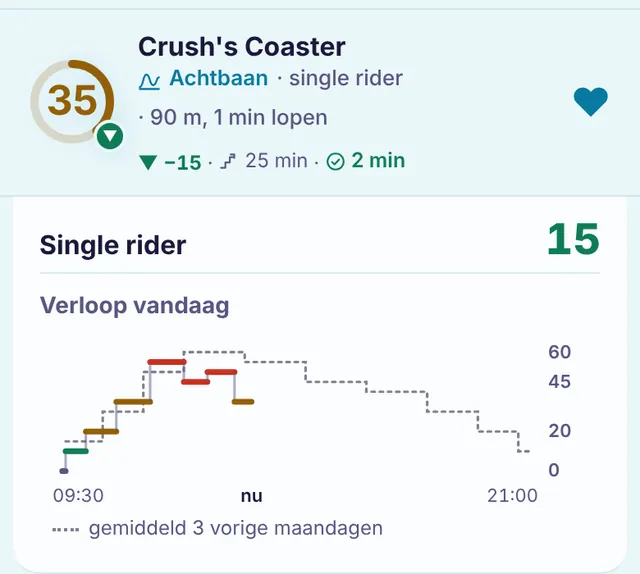
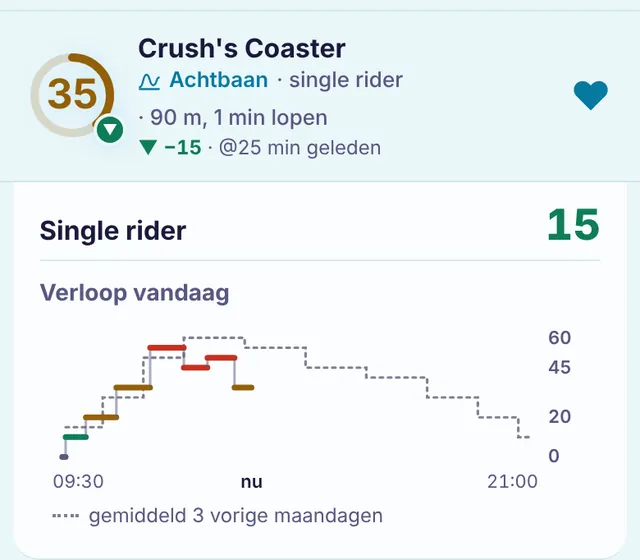
0.22.3: regel onder de naam als '@24 min geleden', bevestigd weg uit de rij
Claude-Session: https://claude.ai/code/session_01LXXgKJuMiuwNeSbj9zwCKJ

diff --git a/apps/web/src/i18n.ts b/apps/web/src/i18n.ts
@@ -19,9 +19,8 @@ const nl = {
   ago: (span: string) => `${span} geleden`,
   min: (m: number) => `${m} min`,
   hours: (h: number, m: number) => (m ? `${h} u ${m} min` : `${h} u`),
-  hoursShort: (h: number, m: number) => (m ? `${h} u ${m}` : `${h} u`),
-  daysShort: (d: number) => `${d} d`,
-  geq: (span: string) => `≥ ${span}`,
+  atAgo: (ago: string) => `@${ago}`,
+  atMoreThan: (span: string) => `@meer dan ${span} geleden`,
   days: (d: number) => `${d} dagen`,
   inDur: (d: string) => `over ${d}`,
   now: 'nu',
@@ -455,7 +454,7 @@ const nl = {
   helpToCode: 'Naar koppelcode',
   helpTopics: [
     { id: 'views', title: 'Alles en Mijn dag', body: ['Alles toont het hele park met tabbladen voor attracties, shows en wat je volgt. Mijn dag toont alleen wat je volgt, met shows bovenaan.', 'Volgen: tik op een naam en dan op Volgen. Het park wissel je in Alles met de knoppen onder de schakelaar.'] },
-    { id: 'signs', title: 'Wachttijden en tekens', body: ['Het getal is de wachttijd in minuten: groen onder 20, oranje onder 45, daarboven rood.', 'Rood uitroepteken = storing, grijze moersleutel = onderhoud, maantje = park dicht. Klein getal rechtsboven = single rider. ▲ rood = langer, ▼ groen = korter dan de vorige meting.', 'Regel onder de naam: trapje = hoe lang geleden de wachttijd veranderde, vinkje = hoe lang geleden de bron hem voor het laatst bevestigde (groen tot 10 min, oranje tot 30 min, daarna rood). "≥ 2 u" = ParkPilot zag hem in die tijd niet veranderen; het echte moment kan eerder zijn. De verandering is nooit recenter dan de bevestiging: ParkPilot meet elke 5 minuten en neemt dan het tijdstip van de bron.', 'Grijs getal = de bron gaf al meer dan 30 minuten geen update; het kan verouderd zijn. Zulke getallen tellen niet mee in gemiddelde en kortste wachttijd.', 'Storingstegel (linksboven in Alles): de storingen van vandaag met tijd, duur en attractie; rood = loopt nog. Tik op een kop om te sorteren, nog eens = omgekeerd. "Al minstens" = liep al toen ParkPilot begon te meten. Onder Onderhoud staan ook attracties die al meer dan een dag dicht zijn; de datum is de laatste update van de bron.'] },
+    { id: 'signs', title: 'Wachttijden en tekens', body: ['Het getal is de wachttijd in minuten: groen onder 20, oranje onder 45, daarboven rood.', 'Rood uitroepteken = storing, grijze moersleutel = onderhoud, maantje = park dicht. Klein getal rechtsboven = single rider. ▲ rood = langer, ▼ groen = korter dan de vorige meting.', 'Regel onder de naam: "@24 min geleden" = zo lang geleden veranderde de wachttijd (of de status). "@meer dan 2 u geleden" = ParkPilot zag hem in die tijd niet veranderen; het echte moment kan eerder zijn. ParkPilot meet elke 5 minuten en neemt het tijdstip van de bron als dat eerder is. Hoe vers de bron is, zie je bovenaan de lijst ("bron bevestigd …") en in het detailvenster.', 'Grijs getal = de bron gaf al meer dan 30 minuten geen update; het kan verouderd zijn. Zulke getallen tellen niet mee in gemiddelde en kortste wachttijd.', 'Storingstegel (linksboven in Alles): de storingen van vandaag met tijd, duur en attractie; rood = loopt nog. Tik op een kop om te sorteren, nog eens = omgekeerd. "Al minstens" = liep al toen ParkPilot begon te meten. Onder Onderhoud staan ook attracties die al meer dan een dag dicht zijn; de datum is de laatste update van de bron.'] },
     { id: 'expand', title: 'Uitklappen en details', body: ['Tik op een wachttijd voor het verloop van vandaag, van opening tot sluiting. De schaal rechts is in minuten. Alleen wijzigingen die ParkPilot zag (elke 5 minuten) staan erin.', 'Stippellijn = dezelfde weekdag in de vorige weken (gemiddeld, tot vier weken). Lichtrode zone met rode stippellijn onderin = storing. Grijze lijn = de bron gaf in die tijd geen update. Grijze achtergrond met een tijdstip = je had geen bereik; het werkt zich vanzelf bij.', 'Tik op de naam voor details en omschrijving. Omschrijvingen en lengtes zijn door ParkPilot samengesteld; controleer de borden bij de ingang.'] },
     { id: 'swipe', title: 'Vegen en afstrepen', body: ['In Mijn dag: naar links vegen strept af als gezien (alleen vandaag, alleen dit toestel). Nog eens vegen maakt het ongedaan.', 'Naar rechts vegen opent lopende navigatie. Met de knop Gezien verberg je afgestreepte rijen.'] },
     { id: 'queue', title: 'In de rij en spelletje', body: ['Houd een attractie even vast en kies de rij. Onderin loopt de tijd met de verwachting. Tik op Aan de beurt en daarna Eruit; je ziet hoe lang je echt wachtte.', 'Bij inchecken kun je een spelletje spelen met gedeelde hiscores. Niet meer vragen? Zet het terug in Instellingen.'] },
@@ -484,9 +483,8 @@ const en: Dict = {
   ago: (span) => `${span} ago`,
   min: (m) => `${m} min`,
   hours: (h, m) => (m ? `${h} h ${m} min` : `${h} h`),
-  hoursShort: (h, m) => (m ? `${h} h ${m}` : `${h} h`),
-  daysShort: (d) => `${d} d`,
-  geq: (span) => `≥ ${span}`,
+  atAgo: (ago) => `@${ago}`,
+  atMoreThan: (span) => `@more than ${span} ago`,
   days: (d) => `${d} days`,
   inDur: (d) => `in ${d}`,
   now: 'now',
@@ -901,7 +899,7 @@ const en: Dict = {
   helpToCode: 'Go to link code',
   helpTopics: [
     { id: 'views', title: 'All and My day', body: ['All shows the whole park with tabs for attractions, shows and what you follow. My day shows only what you follow, with shows at the top.', 'Follow: tap a name, then Follow. Switch park in All with the buttons below the switch.'] },
-    { id: 'signs', title: 'Wait times and signs', body: ['The number is the wait time in minutes: green under 20, orange under 45, red above that.', 'Red exclamation mark = down, grey wrench = refurbishment, moon = park closed. Small number top right = single rider. ▲ red = longer, ▼ green = shorter than the previous reading.', 'Line under the name: steps = how long ago the wait time changed, tick = how long ago the source last confirmed it (green up to 10 min, orange up to 30 min, red after that). "≥ 2 h" = ParkPilot did not see it change in that time; the real moment may be earlier. The change is never more recent than the confirmation: ParkPilot checks every 5 minutes and then uses the source\'s time.', 'Grey number = the source has not updated for more than 30 minutes; it may be out of date. Such numbers do not count towards the average and shortest wait.', 'Breakdown tile (top left in All): today\'s breakdowns with time, duration and attraction; red = still ongoing. Tap a header to sort, again = reverse. "At least" = it was already going when ParkPilot started measuring. Refurbishment also lists attractions closed for more than a day; the date is the source\'s last update.'] },
+    { id: 'signs', title: 'Wait times and signs', body: ['The number is the wait time in minutes: green under 20, orange under 45, red above that.', 'Red exclamation mark = down, grey wrench = refurbishment, moon = park closed. Small number top right = single rider. ▲ red = longer, ▼ green = shorter than the previous reading.', 'Line under the name: "@24 min ago" = how long ago the wait time (or status) changed. "@more than 2 h ago" = ParkPilot did not see it change in that time; the real moment may be earlier. ParkPilot checks every 5 minutes and uses the source\'s time if that is earlier. How fresh the source is shows at the top of the list ("source confirmed …") and in the details.', 'Grey number = the source has not updated for more than 30 minutes; it may be out of date. Such numbers do not count towards the average and shortest wait.', 'Breakdown tile (top left in All): today\'s breakdowns with time, duration and attraction; red = still ongoing. Tap a header to sort, again = reverse. "At least" = it was already going when ParkPilot started measuring. Refurbishment also lists attractions closed for more than a day; the date is the source\'s last update.'] },
     { id: 'expand', title: 'Expanding and details', body: ['Tap a wait time for today\'s history, from opening to closing. The scale on the right is in minutes. Only changes ParkPilot saw (every 5 minutes) are included.', 'Dotted line = the same weekday in previous weeks (average, up to four weeks). Light red zone with a red dotted line at the bottom = down. Grey line = the source gave no update during that time. Grey background with a time = you had no signal; it updates by itself.', 'Tap the name for details and a description. Descriptions and heights are compiled by ParkPilot; check the signs at the entrance.'] },
     { id: 'swipe', title: 'Swiping and ticking off', body: ['In My day: swipe left to tick off as seen (today only, this device only). Swipe again to undo.', 'Swipe right for walking directions. The Seen button hides ticked-off rows.'] },
     { id: 'queue', title: 'In the queue and the game', body: ['Hold an attraction and choose the queue. The time runs at the bottom with the expected wait. Tap My turn, then Done; you see how long you really waited.', 'When checking in you can play a game with shared high scores. Turned off asking? Turn it back on in Settings.'] },
@@ -928,9 +926,8 @@ const pt: Dict = {
   ago: (span) => `há ${span}`,
   min: (m) => `${m} min`,
   hours: (h, m) => (m ? `${h} h ${m} min` : `${h} h`),
-  hoursShort: (h, m) => (m ? `${h} h ${m}` : `${h} h`),
-  daysShort: (d) => `${d} d`,
-  geq: (span) => `≥ ${span}`,
+  atAgo: (ago) => `@${ago}`,
+  atMoreThan: (span) => `@há mais de ${span}`,
   days: (d) => `${d} dias`,
   inDur: (d) => `daqui a ${d}`,
   now: 'agora',
@@ -1345,7 +1342,7 @@ const pt: Dict = {
   helpToCode: 'Ir para o código de ligação',
   helpTopics: [
     { id: 'views', title: 'Tudo e O meu dia', body: ['Tudo mostra o parque inteiro com separadores para atrações, espetáculos e o que segue. O meu dia mostra só o que segue, com os espetáculos no topo.', 'Seguir: toque num nome e depois em Seguir. Mude de parque em Tudo com os botões por baixo do seletor.'] },
-    { id: 'signs', title: 'Tempos e sinais', body: ['O número é o tempo de espera em minutos: verde abaixo de 20, laranja abaixo de 45, vermelho acima disso.', 'Ponto de exclamação vermelho = avaria, chave cinzenta = manutenção, lua = parque fechado. Número pequeno no canto superior direito = single rider. ▲ vermelho = mais longo, ▼ verde = mais curto do que a medição anterior.', 'Linha sob o nome: degraus = há quanto tempo o tempo de espera mudou, visto = há quanto tempo a fonte o confirmou pela última vez (verde até 10 min, laranja até 30 min, depois vermelho). "≥ 2 h" = o ParkPilot não o viu mudar nesse período; o momento real pode ser anterior. A alteração nunca é mais recente do que a confirmação: o ParkPilot verifica a cada 5 minutos e usa a hora da fonte.', 'Número cinzento = a fonte não atualiza há mais de 30 minutos; pode estar desatualizado. Estes números não contam para a média nem para o tempo mais curto.', 'Mosaico de avarias (canto superior esquerdo em Tudo): as avarias de hoje com hora, duração e atração; vermelho = ainda a decorrer. Toque num cabeçalho para ordenar, novamente = inverter. "Pelo menos" = já decorria quando o ParkPilot começou a medir. Em Manutenção também aparecem atrações fechadas há mais de um dia; a data é a última atualização da fonte.'] },
+    { id: 'signs', title: 'Tempos e sinais', body: ['O número é o tempo de espera em minutos: verde abaixo de 20, laranja abaixo de 45, vermelho acima disso.', 'Ponto de exclamação vermelho = avaria, chave cinzenta = manutenção, lua = parque fechado. Número pequeno no canto superior direito = single rider. ▲ vermelho = mais longo, ▼ verde = mais curto do que a medição anterior.', 'Linha sob o nome: "@há 24 min" = há quanto tempo o tempo de espera (ou o estado) mudou. "@há mais de 2 h" = o ParkPilot não o viu mudar nesse período; o momento real pode ser anterior. O ParkPilot verifica a cada 5 minutos e usa a hora da fonte se for anterior. A frescura da fonte aparece no topo da lista ("fonte confirmada …") e nos detalhes.', 'Número cinzento = a fonte não atualiza há mais de 30 minutos; pode estar desatualizado. Estes números não contam para a média nem para o tempo mais curto.', 'Mosaico de avarias (canto superior esquerdo em Tudo): as avarias de hoje com hora, duração e atração; vermelho = ainda a decorrer. Toque num cabeçalho para ordenar, novamente = inverter. "Pelo menos" = já decorria quando o ParkPilot começou a medir. Em Manutenção também aparecem atrações fechadas há mais de um dia; a data é a última atualização da fonte.'] },
     { id: 'expand', title: 'Abrir e detalhes', body: ['Toque num tempo de espera para ver a evolução de hoje, da abertura ao fecho. A escala à direita é em minutos. Só entram as alterações vistas pelo ParkPilot (a cada 5 minutos).', 'Linha pontilhada = o mesmo dia da semana nas semanas anteriores (média, até quatro semanas). Zona vermelho-clara com linha vermelha pontilhada em baixo = avaria. Linha cinzenta = a fonte não atualizou nesse período. Fundo cinzento com uma hora = estava sem rede; atualiza-se sozinho.', 'Toque no nome para detalhes e descrição. As descrições e alturas são compiladas pelo ParkPilot; confirme os avisos à entrada.'] },
     { id: 'swipe', title: 'Deslizar e marcar', body: ['Em O meu dia: deslizar para a esquerda marca como visto (só hoje, só neste aparelho). Deslize outra vez para anular.', 'Deslizar para a direita abre a navegação a pé. O botão Vistos esconde as linhas marcadas.'] },
     { id: 'queue', title: 'Na fila e o jogo', body: ['Mantenha uma atração premida e escolha a fila. Em baixo corre o tempo com a espera prevista. Toque em A minha vez e depois em Saí; vê quanto tempo esperou de facto.', 'Ao entrar na fila pode jogar um jogo com recordes partilhados. Desligou a pergunta? Volte a ligá-la nas Definições.'] },

diff --git a/apps/web/src/main.ts b/apps/web/src/main.ts
@@ -25,7 +25,7 @@ import {
 } from './api';
 import { parkArt, parkIcon } from './art';
 import { h, svg } from './dom';
-import { agoLabel, clock, dec1, dur, durShort, minutesSince, waitLevel } from './format';
+import { agoLabel, clock, dec1, dur, durHuman, minutesSince, waitLevel } from './format';
 import { applyLang, getLangPref, kindName, lang, LANG_NAMES, LANGS, setLangPref, t as T, type LangPref } from './i18n';
 import { GeoError, formatDistance, getPosition, getPrecisePosition, haversineMeters, hasGeoPermission, walkMinutes } from './geo';
 import { icon, iconForKind } from './icons';
@@ -447,13 +447,13 @@ function changedAtMs(live: LiveInfo | undefined): number | null {
   return Number.isFinite(u) ? Math.min(c, u) : c;
 }
 
-/** Korte tekst voor de rij: "21 min" of (niet zelf zien veranderen) "≥ 3 u 10". */
-function changedShort(live: LiveInfo | undefined): string {
+/** Tekst voor de rij: "@24 min geleden", of (niet zelf zien veranderen) "@meer dan 3 u 10 min geleden". */
+function changedText(live: LiveInfo | undefined): string {
   const c = changedAtMs(live);
   if (c === null) return '';
   const min = Math.max(0, Math.floor((Date.now() - c) / 60000));
-  if (live!.changeObserved) return durShort(min);
-  return min < 1 ? '' : T.geq(durShort(min));
+  if (live!.changeObserved) return T.atAgo(min < 1 ? T.justNow : T.ago(durHuman(min)));
+  return min < 1 ? '' : T.atMoreThan(durHuman(min));
 }
 
 /** Pijl met het verschil sinds de vorige waarneming. Hoger is slechter (rood), lager is beter (groen). */
@@ -477,27 +477,15 @@ function freshness(iso: string | null): 'fresh' | 'aging' | 'old' | 'unknown' {
   return min <= 10 ? 'fresh' : min <= 30 ? 'aging' : 'old';
 }
 
-/** Eén regel onder de naam: ▼ −5 · [trapje] 21 min · [vinkje] 5 min. Trapje = wachttijd veranderd, vinkje = bron
- *  bevestigd (kleur = versheid). Woorden alleen voor schermlezers en bij lang drukken (title). */
+/** Regel onder de naam: ▼ −5 · @24 min geleden. Versheid van de bron staat bovenaan de lijst en in het detailvenster. */
 function metaLine(live: LiveInfo | undefined): HTMLElement | null {
   if (!live) return null;
   const parts: (Node | string)[] = [];
   const trend = trendNode(live);
   if (trend) parts.push(trend);
-  const changed = changedShort(live);
-  if (changed) {
-    const c = changedAtMs(live)!;
-    const full = live.changeObserved ? T.changed(agoLabel(new Date(c).toISOString())) : T.unchangedFor(dur(Math.floor((Date.now() - c) / 60000)));
-    parts.push(h('span', { class: 'mi', title: full, 'aria-label': full }, icon('changed', 13), changed));
-  }
-  if (live.updatedAt) {
-    const full = T.confirmed(agoLabel(live.updatedAt));
-    parts.push(h('span', { class: `mi src ${freshness(live.updatedAt)}`, title: full, 'aria-label': full }, icon('confirmed', 13), durShort(minutesSince(live.updatedAt))));
-  }
-  if (!parts.length) return null;
-  const line: (Node | string)[] = [];
-  parts.forEach((p, i) => { if (i) line.push(' · '); line.push(p); });
-  return h('div', { class: 'row-meta one' }, ...line);
+  const changed = changedText(live);
+  if (changed) parts.push(parts.length ? ' · ' : '', changed);
+  return parts.length ? h('div', { class: 'row-meta one' }, ...parts) : null;
 }
 
 function upcomingStarts(live: LiveInfo | undefined): number[] {

diff --git a/apps/web/src/changelog.ts b/apps/web/src/changelog.ts
@@ -10,9 +10,9 @@ export const CHANGELOG: ChangelogEntry[] = [
   {
     version: '0.22.3',
     date: '2026-11-23',
-    changes: ['Regel onder de naam op één regel met twee icoontjes: trapje = veranderd, vinkje = bevestigd. "Veranderd" is nooit meer recenter dan "bevestigd"; lange tijden in dagen.'],
-    en: ['Line under the name now fits on one line with two icons: steps = changed, tick = confirmed. "Changed" is never more recent than "confirmed" any more; long spans in days.'],
-    pt: ['Linha sob o nome numa só linha com dois ícones: degraus = alterado, visto = confirmado. "Alterado" já nunca é mais recente do que "confirmado"; períodos longos em dias.'],
+    changes: ['Regel onder de naam korter: "@24 min geleden" = wanneer de wachttijd veranderde. Kan niet meer recenter zijn dan de bron; lange tijden in dagen.'],
+    en: ['Shorter line under the name: "@24 min ago" = when the wait time changed. Can no longer be more recent than the source; long spans in days.'],
+    pt: ['Linha sob o nome mais curta: "@há 24 min" = quando o tempo de espera mudou. Já não pode ser mais recente do que a fonte; períodos longos em dias.'],
   },
   {
     version: '0.22.2',

diff --git a/apps/web/src/style.css b/apps/web/src/style.css
@@ -128,11 +128,8 @@ main { padding: 2px 0 12px; }
 .row-sub { font-size: 13px; color: var(--accent); font-weight: 600; display: flex; align-items: center; gap: 5px; flex-wrap: wrap; }
 .row-sub .plain { color: var(--muted); font-weight: 500; }
 .row-meta { font-size: 12px; color: var(--muted); margin-top: 1px; }
-/* Sinds 0.22.3: één regel met iconen (trapje = veranderd, vinkje = bevestigd); vinkje vervangt het stipje. */
+/* Sinds 0.22.3: één regel, "▼ −5 · @24 min geleden". */
 .row-meta.one { white-space: nowrap; overflow: hidden; text-overflow: ellipsis; }
-.mi { display: inline-flex; align-items: center; gap: 3px; vertical-align: -2px; }
-.mi .ico { flex: none; }
-.mi.src::before { display: none; }
 .trend { font-weight: 700; font-variant-numeric: tabular-nums; }
 .trend.up { color: var(--high); } .trend.down { color: var(--low); }
 .src { font-weight: 600; }

diff --git a/apps/web/src/format.ts b/apps/web/src/format.ts
@@ -9,12 +9,9 @@ export function dur(min: number): string {
   return t.hours(Math.floor(min / 60), min % 60);
 }
 
-/** Korte duur voor de regel onder de naam: "5 min", "4 u 34", "17 d". */
-export function durShort(min: number): string {
-  if (min < 1) return t.justNow;
-  if (min < 60) return t.min(min);
-  if (min < 48 * 60) return t.hoursShort(Math.floor(min / 60), min % 60);
-  return t.daysShort(Math.floor(min / 1440));
+/** Duur in gewone taal; vanaf 48 uur in dagen ("17 dagen"). */
+export function durHuman(min: number): string {
+  return min < 48 * 60 ? dur(min) : t.days(Math.floor(min / 1440));
 }
 
 export function agoLabel(iso: string | null, now = Date.now()): string {

diff --git a/apps/web/src/icons.ts b/apps/web/src/icons.ts
@@ -21,8 +21,6 @@ const PATHS: Record<string, string[]> = {
   gauge: ['M4 17a8 8 0 1 1 16 0', 'M12 17l4-5'],
   bolt: ['M13 2L5 14h6l-1 8 8-12h-6z'],
   grid: ['M4 4h6.5v6.5H4z', 'M13.5 4H20v6.5h-6.5z', 'M4 13.5h6.5V20H4z', 'M13.5 13.5H20V20h-6.5z'],
-  changed: ['M3 19h5v-6h5V7h4', 'M14 4h4v4'],
-  confirmed: ['M12 3a9 9 0 1 0 0.01 0z', 'M8 12.5l2.8 2.8L16 9.8'],
   menu: ['M4 7h16', 'M4 12h16', 'M4 17h16'],
   stale: ['M12 3a9 9 0 1 0 0.01 0z', 'M12 7v5l3 2', 'M3 3l18 18'],
   help: ['M12 3a9 9 0 1 0 0.01 0z', 'M9.5 9.2a2.6 2.6 0 0 1 5 .8c0 1.8-2.5 2.2-2.5 3.8', 'M12 17h.01'],

diff --git a/HANDOVER.md b/HANDOVER.md
@@ -1,6 +1,6 @@
 # ParkPilot: overdrachtsdocument
 
-Eerste versie 21 november 2026. **Laatst bijgewerkt: 23 november 2026, 21:55** (zie logboek, hoofdstuk 16). Doel: een nieuwe Claude-chat, ook in een ander account, kan hiermee zonder voorkennis verder bouwen. Alles wat nodig is staat hier of in de repo. Lees dit eerst helemaal, vooral de hoofdstukken 2, 3, 4.1, 12 en **15**.
+Eerste versie 21 november 2026. **Laatst bijgewerkt: 23 november 2026, 22:05** (zie logboek, hoofdstuk 16). Doel: een nieuwe Claude-chat, ook in een ander account, kan hiermee zonder voorkennis verder bouwen. Alles wat nodig is staat hier of in de repo. Lees dit eerst helemaal, vooral de hoofdstukken 2, 3, 4.1, 12 en **15**.
 
 **Vaste afspraak:** Claude werkt dit document bij na elke wijziging, beslissing of nieuwe kennis, in dezelfde beurt, zowel in het claude.ai-project "ParkPilot" (`claude/ParkPilot-HANDOVER.md`) als in de repo (`HANDOVER.md`). Wat Claude leert over Remco's werkwijze en voorkeuren, en alles wat hij een "framework feature" noemt, gaat naar hoofdstuk 15.
 
@@ -14,7 +14,7 @@ Eerste versie 21 november 2026. **Laatst bijgewerkt: 23 november 2026, 21:55** (
 - **Live:** https://parkpilot.remco-dv.workers.dev
 - **Repo:** https://github.com/RemcoNLD/parkpilot (publiek). Cloudflare Workers Builds bouwt en deployt automatisch bij elke commit.
 - **Stack:** Vite + TypeScript (vanilla, geen framework) · één Cloudflare Worker (API + statische assets) · Cloudflare D1 (SQLite) · live data van ThemeParks.wiki.
-- **Versie in de code:** `0.22.3` (23 nov 2026 ~21:55): regel onder de naam op één regel met iconen, veranderd nooit recenter dan bevestigd (6.2). Daarvoor `0.22.2` (23 nov 2026 ~21:35): grafiek verspringt niet meer na bijwerken (6.5). Daarvoor `0.22.1` (23 nov 2026 ~21:10): uitlegteksten uit beeld naar Help (15.4 punt 15), "veranderd … / bevestigd …" (6.2), detailvenster van een show vanuit een andere dag (6.4), onleesbare verwachte tijd bij gevolgde show. Daarvoor `0.22.0` (23 nov 2026, gepusht naar `main` om ~20:42, commit 9012567): rondleiding begint met welkom + koppelcode en de keuze Meteen beginnen / Rondleiding (6.12); bezette eigen code → vraag om dat lijstje te openen (6.12); detailvenster opnieuw geordend met "Over deze cijfers" ingeklapt (6.4). Daarvoor `0.21.2`, gepusht naar `main` op 23 nov 2026 ~18:50: menu (☰) linksboven met uitklapmenu eronder, op de EVailability-manier (6.2, 15.3 punt 16). Daarvoor 0.21.1: storingstabel sorteerbaar via de kop (6.13). Daarvoor 0.21.0: langdurig dicht → Onderhoud (6.14) en storingen van vandaag als compacte tabel (6.13). Daarvoor 0.20.0 (storingen als tijdlijnen, door Remco afgekeurd) en 0.19.0 (commit a08faa6): grijs bij een stille bron (6.5b), rondleiding met schermafbeeldingen (6.12), menuknop ☰, waarschuwingen bij de koppelcode. Daarvoor 0.18.1 (grafiek opening–sluiting) en 0.18.0 (rondleiding, help, stippellijn). Nog niet door Remco bevestigd. 0.9.0 (single rider) bevestigd met "Werkt".
+- **Versie in de code:** `0.22.3` (23 nov 2026 ~22:05): regel onder de naam "▼ −5 · @24 min geleden", bevestigd weg uit de rij, veranderd nooit recenter dan de bron (6.2). Daarvoor `0.22.2` (23 nov 2026 ~21:35): grafiek verspringt niet meer na bijwerken (6.5). Daarvoor `0.22.1` (23 nov 2026 ~21:10): uitlegteksten uit beeld naar Help (15.4 punt 15), "veranderd … / bevestigd …" (6.2), detailvenster van een show vanuit een andere dag (6.4), onleesbare verwachte tijd bij gevolgde show. Daarvoor `0.22.0` (23 nov 2026, gepusht naar `main` om ~20:42, commit 9012567): rondleiding begint met welkom + koppelcode en de keuze Meteen beginnen / Rondleiding (6.12); bezette eigen code → vraag om dat lijstje te openen (6.12); detailvenster opnieuw geordend met "Over deze cijfers" ingeklapt (6.4). Daarvoor `0.21.2`, gepusht naar `main` op 23 nov 2026 ~18:50: menu (☰) linksboven met uitklapmenu eronder, op de EVailability-manier (6.2, 15.3 punt 16). Daarvoor 0.21.1: storingstabel sorteerbaar via de kop (6.13). Daarvoor 0.21.0: langdurig dicht → Onderhoud (6.14) en storingen van vandaag als compacte tabel (6.13). Daarvoor 0.20.0 (storingen als tijdlijnen, door Remco afgekeurd) en 0.19.0 (commit a08faa6): grijs bij een stille bron (6.5b), rondleiding met schermafbeeldingen (6.12), menuknop ☰, waarschuwingen bij de koppelcode. Daarvoor 0.18.1 (grafiek opening–sluiting) en 0.18.0 (rondleiding, help, stippellijn). Nog niet door Remco bevestigd. 0.9.0 (single rider) bevestigd met "Werkt".
 - **Rondleiding en help (sinds 0.18.0):** zie 6.12. De menuknop **linksboven** (☰, sinds 0.21.2; daarvoor rechtsboven, tot 0.19.0 een tandwiel) klapt eronder open met Instellingen / Help / Rondleiding.
 - **Bij elke nieuwe versie:** nummer ophogen in `version.ts` + `package.json` **én** een regel toevoegen bovenaan `apps/web/src/changelog.ts` (in de app: Instellingen > Wat is er nieuw), in het Nederlands (`changes`), Engels (`en`) én Portugees (`pt`), datum als `JJJJ-MM-DD`. Korte, gewone taal, gericht op wat Remco ziet.
 - **Meertalig:** Nederlands, Engels (sinds 0.13.0) en Portugees (sinds 0.16.0). Elke tekst in de app staat in `apps/web/src/i18n.ts` (nl + en + pt). Nooit losse teksten in `main.ts`; nieuwe teksten altijd in alle drie de talen; zie 6.9.
@@ -179,7 +179,7 @@ De oude losse bestanden in de repo-root (`dom.ts`, `main.ts` enz. van de eerste 
 - Tabs Attracties / Shows / Volgend, sorteerchips (Wachttijd, Afstand, Naam), filter "Alleen open" (houdt rekening met gesloten park). Shows-tab heeft een **dagkeuze** (zie 7.3).
 - Rij: ring met wachttijd (<20 groen, <45 oranje, anders rood), naam, soortregel, afstand/looptijd, bronleeftijd. Storing = rood uitroepteken zonder ring; onderhoud = grijze moersleutel zonder ring; park dicht = gedimd met maantje.
 - **Regel onder de naam (sinds 0.22.1)** (Remco, 20:50: "Laatste update en laatste keer terugkoppeling van de bron moet duidelijker. Wachttijd is laatst x minuten geleden veranderd. Voor het laatst bevestigd door de bron x minuten geleden. Die tekst efficiënter maar wel duidelijk."): "▼ −5 · veranderd 21 min geleden · ● bevestigd 5 min geleden" (stip/kleur = versheid bron: groen ≤10, oranje ≤30, rood). Niet gezien veranderen: "al 3 u gelijk". Statusregel bovenaan: "Opgehaald zojuist · bron bevestigd 2 min geleden"; in Mijn dag "bron bevestigd …". Teksten `changed`, `unchangedFor`, `confirmed`, `srcLatest`, `freshUpdated`, `srcAgo`, `wasPrev`.
-- **Eén regel met iconen (sinds 0.22.3)** (Remco, 21:41, screenshot "veranderd 4 u 34 · bevestigd 4 u 37" en "al 70 u gelijk · bevestigd 412 u"): "De teksten kunnen niet kloppen. Laatste update is recenter dan de laatste controle? Zet op 1 regel en verzin twee iconen." **Oorzaak:** `changedAt` is het moment dat onze cron (elke 5 min) de wijziging zag, `updatedAt` het moment van de bron; de cron ziet het dus altijd een paar minuten later. Bij "al gelijk" begon onze meting later dan de laatste bron-update. **Regel nu:** `changedAtMs()` = min(`changedAt`, `updatedAt`), in de rij én het detailvenster. **Weergave:** `metaLine()` = "▼ −5 · [trapje] 21 min · [vinkje] 5 min", zonder woorden, `nowrap` + ellipsis. Icoon `changed` (trapje met pijl) en `confirmed` (vinkje in cirkel, kleur = versheid, vervangt het stipje). Korte duur `durShort()` in `format.ts`: "5 min", "4 u 34", vanaf 48 u "17 d". Niet zelf zien veranderen: "≥ 3 u 10" (`T.geq`). Volledige zin in `title`/`aria-label`. Help › Wachttijden en tekens legt de iconen uit (nl/en/pt). Bekeken in Chrome-screenshot donker/nl met rijke nepdata.
+- **Regel onder de naam (sinds 0.22.3)** (Remco, 21:41: "De teksten kunnen niet kloppen. Laatste update is recenter dan de laatste controle?"; daarna 21:54, na een eerste versie met twee iconen: "No we do it different. Show @ and then humanized time since change. So @24 minutes ago. Remove when it was last confirmed. Don't change the version number."): "▼ −5 · @24 min geleden" (`metaLine()`, `nowrap` + ellipsis). Niet zelf zien veranderen: "@meer dan 3 u 10 min geleden" (`T.atMoreThan`). Vanaf 48 u in dagen (`durHuman()` in `format.ts`). **Bevestigd staat niet meer in de rij**; versheid van de bron staat in de statusregel bovenaan ("bron bevestigd …") en als feit in het detailvenster. **Oorzaak van de onmogelijke tijden:** `changedAt` = moment dat onze cron (elke 5 min) de wijziging zag, `updatedAt` = moment van de bron; bij "al gelijk" begon onze meting later dan de laatste bron-update. Nu `changedAtMs()` = min(`changedAt`, `updatedAt`), in de rij én het detailvenster. Help › Wachttijden en tekens bijgewerkt (nl/en/pt). De iconen-versie (trapje/vinkje) is vervangen, nooit door Remco goedgekeurd. Bekeken in Chrome-screenshot donker/nl.
 - **Tik op wachttijd/showtijd** klapt de rij uit. Bij attracties met single rider staat bovenin het uitklappen "Single rider" met de wachttijd (alleen getal, kleur per niveau) of "geen wachttijd bekend"; alleen als de attractie open is en het park open. Geldt in Overzicht én Mijn programma (`singleRiderLine()`). Ook in het detailvenster bij de feiten. **Tik op de naam** opent het detailvenster.
 - **Geen omschrijvingen in lijsten.**
 
@@ -620,7 +620,7 @@ Claude vult dit aan zodra iets nieuws blijkt. Geldt **voor elke app** van Remco.
 ## 16. Logboek
 
 - **21 nov 2026, ochtend:** overdrachtsdocument opgesteld (einde vorige bouwsessie).
-- **23 nov 2026, 21:55 — versie 0.22.3:** Remco (21:41): veranderd recenter dan bevestigd kan niet; één regel met twee iconen. Gebouwd (6.2). Patch. 38 × ok; screenshot donker/nl. Niet op een iPhone.
+- **23 nov 2026, 22:05 — versie 0.22.3:** Remco (21:41): veranderd recenter dan bevestigd kan niet; één regel met twee iconen. Eerst zo gebouwd; Remco (21:54) wilde het anders: "@24 min geleden", bevestigd weg, zelfde versienummer. Zie 6.2. Patch. 38 × ok; screenshot donker/nl. Niet op een iPhone.
 - **23 nov 2026, 21:35 — versie 0.22.2:** Remco (21:26, drie stills uit een video): grafiek springt na laden van de bewaarde stand naar de nieuwe. Oorzaak en oplossing in 6.5. Patch. 38 × ok; screenshots `history` donker/nl en licht/pt. Niet op een iPhone.
 - **23 nov 2026, 21:10 — versie 0.22.1:** Remco (20:50, drie screenshots): redundante uitlegteksten weg (naar Help), min/max niet in tekst, "veranderd/bevestigd" duidelijker, bug: detail van een show vanuit Morgen streepte tijden van vandaag af. Gebouwd (6.2, 6.4, 15.4 punt 15). Ook gevonden op zijn screenshot: gevolgde show met verwachte tijd had een leeg kader (donkere tekst op transparant), opgelost met `.slot.fav.guess`. Patch (opruimen + fixes). 38 × ok; screenshots donker/nl (`days`, `main` rijk). Rondleidingsafbeeldingen opnieuw. Niet op een iPhone.
 - **23 nov 2026, 21:00 — versie 0.22.0:** Remco (20:30, drie screenshots): intro met uitleg + codekeuze eerst, daarna Meteen beginnen / Rondleiding; bezette eigen code → vragen om te openen, server leidend; detailvenster: technische regels onder de grafiek inklappen. Gebouwd (6.4, 6.12), help Koppelcode aangevuld (nl/en/pt), screenshot-scenario `tour` herschreven (welkom, alle keuzes incl. bezette code, Meteen beginnen, menu begint bij stap 1), `main` met `PP_RICH=1` maakt nu ook het detailvenster van Cars ROAD TRIP. Minor (nieuw gedrag). 38 × ok; screenshots donker/nl, licht/pt, detail donker/nl; 48 rondleidingsafbeeldingen opnieuw. Eerste poging: `add_repo` geweigerd ("Unauthorized Access"), zip geleverd. Remco (20:41): "Link de repo en push zelf." Tweede `add_repo` werkte, gepusht (commit 9012567); zip overbodig. Niet op een iPhone. Opgemerkt, niet gebouwd: afstand "505,5 km, 6740 min lopen" als je thuis bent (voorstel: verbergen boven ~5 km van het park).
